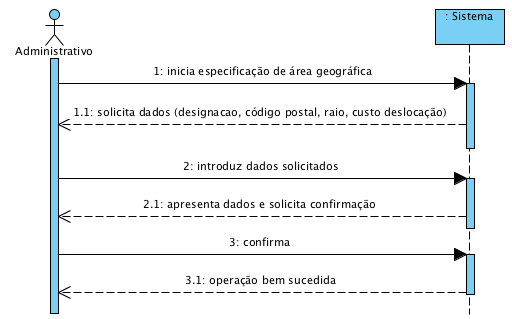
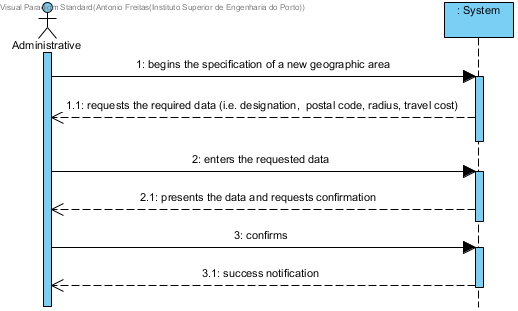
Translation [UC5] artifacts

Changed region(s): [[0.0, 0.0, 1.0, 1.0]]

diff --git a/Design/UC5_EspecificarAreaGeografica.md b/Design/UC5_EspecificarAreaGeografica.md
@@ -1,65 +1,52 @@
-# Realização de UC5 Especificar Área Geográfica
+# Realization of UC5  Specify Geographic Area
 
-## Racional
+## Rational
 
-| Fluxo Principal                                                                                        | Questão: Que Classe...                                      | Resposta                                       | Justificação                                                                                                         |
+  | Flow Main                                                                                        | Questions: Which class...                                      | Answer                                       | Justification                                                                                                         |
 |:-------------------------------------------------------------------------------------------------------|:------------------------------------------------------------|:-----------------------------------------------|:---------------------------------------------------------------------------------------------------------------------|
-| 1. O administrativo inicia a especificação de uma nova área geográfica. | ... interage com o utilizador? | EspecificarAreaGeograficaUI.                          | Pure Fabrication, pois não se justifica atribuir esta responsabilidade a nenhuma classe existe no Modelo de Domínio. |
-|| ... coordena o UC?                                                                              | EspecificarAreaGeograficaController                                | Controller.                                    |                                                                                                                      |
-|| ... cria/instancia área geográfica?          | RegistoAreasGeograficas                                               | Creator (Regra 1) + HC+LC : Empresa delega em RegistoAreasGeograficas                             |                                                                                                                      |
-| 2. O sistema solicita os dados necessários (i.e. designação, **código postal, raio**, custo de deslocação).  |                  |                                                |                                                                                                                      |
-| 3.	O administrativo introduz os dados solicitados.   | ... guarda os dados introduzidos?                    |Área Geográfica                                    | Information Expert (IE) - instância criada no passo 1                                                                                              |
-| 4.	 **O sistema obtém os códigos postais cobertos pela nova area geográfica**, valida e apresenta os dados e ao administrativo, pedindo que os confirme.                                                              | ... valida os dados da área geográfica (validação local)? | Área Geográfica                                     | IE: Área Geográfica possui os seus próprios dados                                                                                                                   |
-|| ... valida os dados da Área Geográfica (validação global)?                                           | RegistoAreasGeograficas                                               | IE: RegistoAreasGeograficas contém/agrega AreasGeograficas |                                                                                                                      |
-||...disponibiliza os códigos postais num raio de ação|ServicoExterno|IE: no MD ServicoExterno fornece essa informação. |
-||...qual é o resultado expetável do ServicoExterno|List\<AtuaEm>|IE: no MD ServicoExterno informa várias "AtuaEm". |
-||... conhece o ServicoExterno|Empresa|IE: no MD Empresa define ServicoExterno. Protected Variation sobre ServicoExterno visto que o sistema deve suportar vários serviços externos|
-||...implementa as particularidades de cada serviço externo em concreto?|ServicoExtenoXXXAdapter|ProtectedVariation + Adapter|
-| 5. O administrativo confirma.                                                                     |                                                             |                                                |                                                                                                                      |
-| 6.	O sistema regista os dados e informa o administrativo do sucesso da operação.                           | ... guarda a área geográfica  especificada/criada?                            | Empresa                                 | IE. No MD a Empresa atua em várias áreas geográficas                                                                |
-|| ... notifica o utilizador?                                                                                   | EspecificarCategoriaUI                                        |                                                |                                                                                                                      |
+| 1. The administrative begins to specify a new geographical area. | ... interacts with the user? | GeographicAreaSpecUI.                          | Pure Fabrication, because it is not justified to attribute this responsibility to any class existing in the Domain Model. |
+|| ... coordinates the UC?                                                                              | GeographicAreaSpecController                                | Controller.                                    |                                                                                                                      |
+|| ... create/instance Geographic Area?          | GeographicAreaRegistry                                               | Creator (Rule 1) + HC+LC : Company delegates to GeographicAreaRegistry                              |                                                                                                                      |
+| 2. The system requests the required data (i.e. designation, postal code, radius, travel cost).  |                  |                                                |                                                                                                                      |
+| 3.	The administrator enters the requested data.   | ...saves the submitted data?                    |Geographic Area                                    | Information Expert (IE) - instance created in step 1                                                                                              |
+| 4.	 The system obtains the postal codes covered by the new geographical area, validates the gathered data and presents it to the administrative, requesting to confirm the data.                                                              | ... validates the data of the new Geographic Area (local validation?) | Geographic Area                                     | IE: Geographic Area has its own data                                                                                                                    |
+|| ... validates the data of the new Geographic Area (global validation)?                                           | GeographicAreaRegistry                                               | IE: GeographicAreaRegistry contains/adds Geographic Area |                                                                                                                      |
+||...provides the available postal codes available within a radius/range of action|ExternalService|IE: in Domain Model External Service provides this information. |
+||...what is the expected outcome from ExternalService|List\<Location>|IE: in the Domain Model the ExternalService provides information about several "Location" lists. |
+||... knows the ExternalService|Company|IE: the Domain Model defines the ExternalService. Protected Variation regarding ExternalService since the system must support several external services|
+||...implements the particularities of each external service in concrete?|ExternalServiceXXXAdapter|ProtectedVariation + Adapter|
+| 5. The administrative confirms.                                                                     |                                                             |                                                |                                                                                                                      |
+| 6.	The system records the data and informs the administrative the success of the operation.                           | ... saves the specified / created geographic area?                            | Company                                 | IE. In the Domain Model the company operates in several geographical areas                                                                |
+|| ... notifies the user?                                                                                   | GeographicAreaSpecUI                                        |                                                |                                                                                                                      |
 
-## Sistematização ##
+## Systematization ##
 
- Do racional resulta que as classes conceptuais promovidas a classes de software são:
+ From the rationale results that the following conceptual classes are promoted to software classes are:
 
- * Empresa
- * Área Geográfica
- * ServicoExterno
- * AtuaEm
+ * Company
+ * GeographicArea
+ * ExternalService
+ * Location
 
-Outras classes de software (i.e. Pure Fabrication) identificadas:  
+Other software classes (i.e. Pure Fabrication) identified:  
 
- * EspecificarAreaGeograficaUI  
- * EspecificarAreaGeograficaController
- * RegistoAreasGeograficas
+ * GeographicAreaSpecUI  
+ * GeographicAreaSpecController
+ * GeographicAreaRegistry
 
 
-##	Diagrama de Sequência
+##	Sequence Diagram
 ### Solução Base
 ![SD_UC5_IT2.png](SD_UC5_IT2.png)
 
-**Esta solução base é complementada/detalhada com uma das alternativas abaixo apresentadas.
-Aplicou-se _"Interaction Use"_ para que o Diagrama de Sequência referencie o diagrama que detalha/complementa este.**
+**It was applied _"Interaction Use"_ so that the Sequence Diagram has a reference to the diagram that details / complements the main diagram.
 
 
-### Detalhe - Alternativa A
+### Detail Diagram
 
-![SD_UC5_IT2_Detalhe1.png](SD_UC5_IT2_Detalhe1.png)
+![SD_UC5_IT2_Detail1.png](SD_UC5_IT2_Detail1.png)
 
 
-### Detalhe - Alternativa B
-
-![SD_UC5_IT2_Detalhe2.png](SD_UC5_IT2_Detalhe2.png)
-
-### Detalhe - Outras Alternativas
-
-Outras alternativas são possíveis e aceitáveis.
-Por exemplo, uma alternativa semelhante à alternativa A mas que adote a forma de criação de "CodigoPostal" usada na alternativa B (através do método "from").
-
-**Contudo, a forma de criação de "CódigoPostal" da alternativa A (através do seu construtor) está mais coerente com as restante proposta de solução.**
-
-##	Diagrama de Classes
-De acordo com a alternativa A.
+##	Class Diagram
 
 ![CD_UC5_IT2.png](CD_UC5_IT2.png)

diff --git a/CasosUso/UC5_EspecificarAreaGeografica.md b/CasosUso/UC5_EspecificarAreaGeografica.md
@@ -1,83 +1,83 @@
-# UC5 - Especificar Área Geográfica
+# UC5 - Geographic Area Specification
 
-## Formato Breve
+## Brief Description
 
-O administrativo inicia a especificação de uma nova área geográfica. O sistema solicita os dados necessários (i.e. designação, **código postal, raio,** custo de deslocação). O administrativo introduz os dados solicitados. **O sistema obtém os códigos postais cobertos pela nova area geográfica**, valida e apresenta os dados e ao administrativo, pedindo que os confirme. O administrativo confirma. O sistema regista a nova area geográfica e informa o administrativo do sucesso da operação.
+The administrative begins to specify a new geographical area. The system requests the required data (i.e. designation, postal code, radius, travel cost). The administrative enters the requested data. The system gets the postal codes covered by the new geographical area, validates and presents the data and the administrative, asking to confirm the data. The administrative confirms. The system registers the new geographical area and informs the administrative the success of the operation.
+
 
 ## SSD
 ![SSD_UC5_IT2.png](SSD_UC5_IT2.png)
 
-## Formato Completo
+## Full Description
 
-### Ator principal
+### Primary Actor
 
-Administrativo
+Administrative
 
-### Partes interessadas e seus interesses
-* **Administrativo:** pretende especificar as áreas geográficas e os custos de deslocação associados.
-* **Cliente:** pretende saber em que áreas geográficas a empresa presta serviços e os custos de deslocação.
-* **Empresa:** pretende que as áreas geográficas estejam descritas em rigor/detalhe.
+### Stakeholders and purposes
+* **Administrative:** wants to specify new geographic areas and to register the associated costs.
+* **Client:** intents to know in which areas the company provides services and travel costs.
+* **Company:** intents to have all the complete information regarding the geographic areas in which as Services to provide.
 
 
-### Pré-condições
+### Preconditions
 n/a
 
-### Pós-condições
-A informação da área geográfica é registada no sistema.
+### Postconditions
+All data regarding the geographic area is registered in the system.
 
-## Cenário de sucesso principal (ou fluxo básico)
+## Main success scenario (or basic flow)
 
-1. O administrativo inicia a especificação de uma nova área geográfica.
-2. O sistema solicita os dados necessários (i.e. designação, **código postal, raio**, custo de deslocação). 
-3. O administrativo introduz os dados solicitados. 
-4. **O sistema obtém os códigos postais cobertos pela nova area geográfica**, valida e apresenta os dados e ao administrativo, pedindo que os confirme. 
-5. O administrativo confirma. 
-6. O sistema a nova area geografica e informa o administrativo do sucesso da operação.
+1. The administrative begins the specification of a new geographic area.
+2. The system requests the required data (i.e. designation,  postal code, radius, travel cost).
+3. The administrator enters the requested data.
+4. The system obtains the postal codes covered by the new geographical area, validates the gathered data and presents it to the administrative, requesting to confirm the data.
+5. The administrative confirms.
+6. The system adds the new geographic area to the system and informs the administrative of the success of the operation.
 
-### Extensões (ou fluxos alternativos)
 
-*a. O administrativo solicita o cancelamento da especificação da area geográfica.
+### Exception conditions (alternative flow)
 
-> O caso de uso termina.
-	
-4a. Dados mínimos obrigatórios em falta.
-> 1. O sistema informa quais os dados em falta.
-> 2. O sistema permite a introdução dos dados em falta (passo 3)
+*a. The administrator requests the cancellation of the operation to specify a geographic area.
+
+> The use case ends.
+
+4a. Minimum mandatory data missing.
+> 1. The system informs the user which data is missing.
+> 2. The system allows you to enter the missing data (step 3)
 >
-	> 2a. O administrativo não altera os dados. O caso de uso termina.
+	> 2a. The administrative does not change the data. The use case ends.
 
-4b. O sistema deteta que os dados (ou algum subconjunto dos dados) introduzidos devem ser únicos e que já existem no sistema.
->	1. O sistema alerta o administrativo para o facto.
->	2. O sistema permite a sua alteração (passo 3)
+4b. The system detects that the inserted data (or some subset) already exist in the system and must be unique.
+>	1. The system alerts the administrative to this matter.
+>	2. The systems allows the change (step 3)
 >
-	>	2a. O administrativo não altera os dados. O caso de uso termina.
+	>	2a. The administrative does not change the data. The use case ends.
 
-4c. O sistema detecta que os dados introduzidos (ou algum subconjunto dos dados) são inválidos.
-> 1. O sistema alerta o administrativo para o facto. 
-> 2. O sistema permite a sua alteração (passo 3).
-> 
-	> 2a. O administrativo não altera os dados. O caso de uso termina. 
+4c.  The system detects that the inserted data (or some subset) is invalid.
+> 1. The system alerts the administrative to this matter.
+> 2. The systems allows the change (step 3)
+>
+	> 2a. The administrative does not change the data. The use case ends.
 
-**4d. O sistema não consegue determinar os códigos postais cobertos pela área geográfica**
-> 1. O sistema alerta o administrativo para o facto. 
->  O caso de uso termina. 
+4d. The system is not able to determine the postal codes covered by the geographical area.
+> 1. The system alerts the administrative to this matter.
+	> The use case ends.
 
-### Requisitos especiais
+### Special Requirements
 \-
 
-### Lista de Variações de Tecnologias e Dados
+### Variations in technologies and data
 \-
-**O sistema deve recorrer a um serviço externo definido por configuração para obter os códigos postais abrangidos pela area geográfica** 
+The system must use an external service defined by configuration to obtain the postal codes covered by the geographical area
 
-### Frequência de Ocorrência
+### Frequency of occurrence
 \-
 
-### Questões em aberto
+### Open questions
 
-* ~~Existem outros dados que são necessários para identificar a área geográfica?~~
-* ~~Quais  os dados que são obrigatórios para identificar uma área geográfica?~~
-* Quais os dados que em conjunto permitem detectar a duplicação de áreas geográficas?
-* É necessário manter algum histórico do custo de deslocalção associada à área geográfica?
-* Qual a frequência de ocorrência deste caso de uso?
-* **O sistema deve alertar para sobreposições territoriais entre áreas geográficas?**
-* **Os códigos postais obtidos através do serviço externo podem ser modificados (adicionados, removidos) pelo administrativo?** 
+* What data together can detect the duplication of geographical areas?
+* Is it necessary to maintain some historical cost of relocation associated with the geographical area?
+* How often does this use case occur?
+* **Should the system alert to territorial overlaps between geographic areas? **
+* **Postal codes obtained through the external service can be modified (added, removed) by the administrative?**
